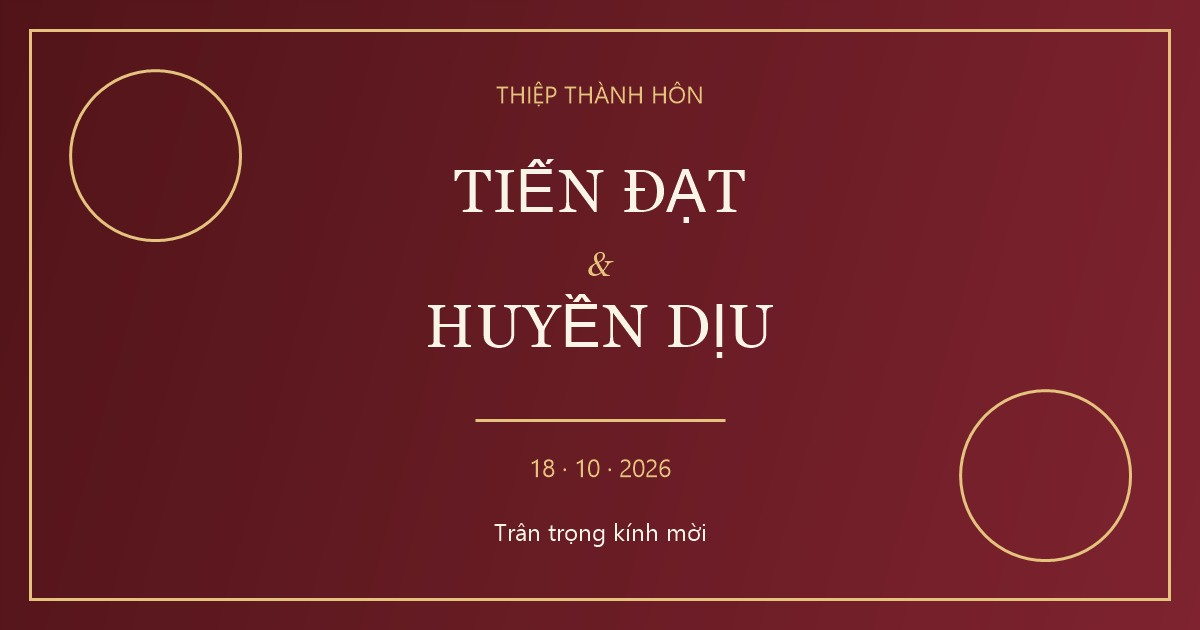
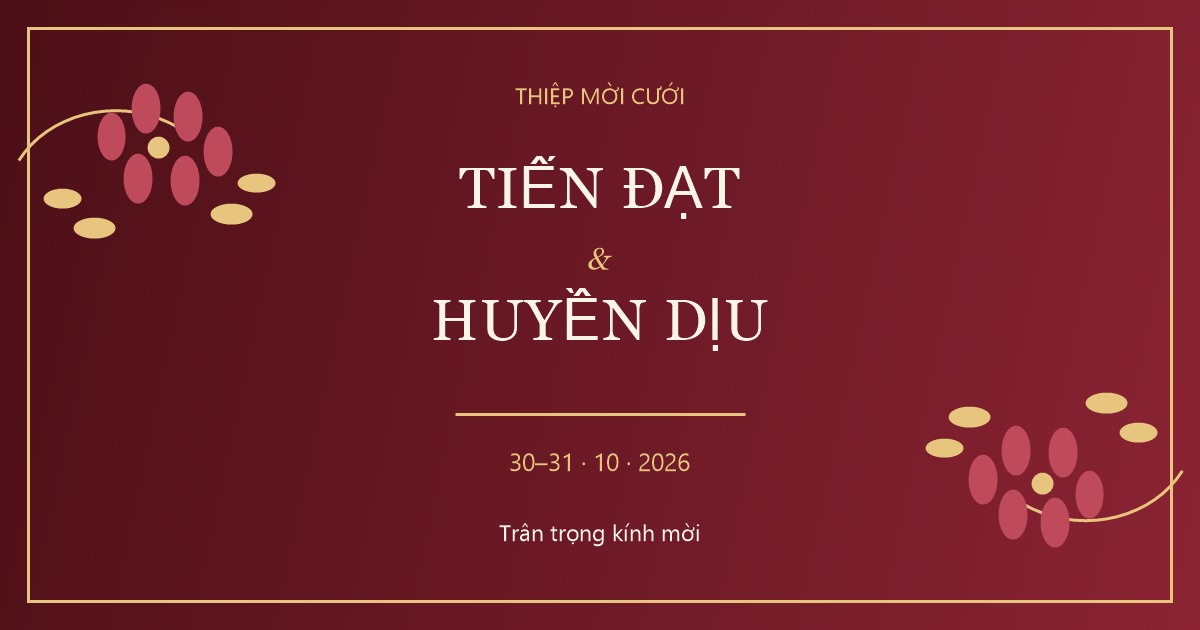
Update wedding dates and optimize invitation media

diff --git a/src/components/sections.js b/src/components/sections.js
@@ -2,9 +2,9 @@ import {invitationData as d} from '../data.js';
 import {floral,image,icon,escapeHTML as e,calendarCells,calendarURL} from '../lib.js';
 const title=t=>`<h2>${t}</h2>`;
 export function OpeningHero(){return `<header class="opening-hero"><p class="eyebrow">SAVE THE DATE</p><div class="envelope-scene" aria-label="Ảnh cưới trong phong bì"><div class="envelope-back"></div><div class="hero-photo">${image(d.hero.src,d.hero.alt,'','eager',d.hero.position)}</div>${floral('hero-flower')}<div class="envelope-front"></div><div class="envelope-seal">${icon('heart')}</div></div><div class="couple-names"><span>${e(d.couple.groom)}</span><i>&</i><span>${e(d.couple.bride)}</span></div></header>`;}
-export function WeddingCeremony(){return `<section class="ceremony section-card burgundy">${floral('card-flower right')}${title('THÔNG TIN LỄ CƯỚI')}<div class="families">${d.families.map(f=>`<div><p class="family-label">${e(f.title)}</p><p>Ông Bà</p><strong>${e(f.father)}<br>${e(f.mother)}</strong><p class="family-address">${e(f.address)}</p></div>`).join('')}</div><p class="formal">TRÂN TRỌNG BÁO TIN<br>LỄ THÀNH HÔN CỦA CHÚNG TÔI</p><h3 class="full-name">${e(d.couple.groomFull)}</h3><p class="birth-order">CHÚ RỂ</p><div class="ampersand">&</div><h3 class="full-name">${e(d.couple.brideFull)}</h3><p class="birth-order">CÔ DÂU</p><p class="formal ceremony-place">LỄ THÀNH HÔN ĐƯỢC CỬ HÀNH TẠI<br><strong>${e(d.event.ceremonyVenue.toUpperCase())}</strong></p><p class="time-row">VÀO LÚC ${e(d.event.ceremonyTime)} <span>${e(d.event.weekday.toUpperCase())}</span></p>${dateBlock()}<p class="lunar">TỨC NGÀY ${e(d.event.lunarDate.toUpperCase())} ÂM LỊCH</p></section>`;}
-function dateBlock(){const {year,month,day}=calendarCells(d.event.date);return `<div class="date-block"><b>${String(day).padStart(2,'0')}</b><span>THÁNG ${String(month).padStart(2,'0')}<br>${year}</span></div>`;}
-export function WeddingCalendar(){const c=calendarCells(d.event.date);return `<div class="wedding-calendar"><p>Tháng ${c.month} / ${c.year}</p><div class="calendar-grid">${['T2','T3','T4','T5','T6','T7','CN'].map(day=>`<span class="weekday">${day}</span>`).join('')}${c.cells.map(n=>`<span ${n===c.day?'class="wedding-day" aria-label="Ngày cưới '+n+'"':''}>${n||''}</span>`).join('')}</div></div>`;}
-export function ReceptionInfo(){return `<section class="reception section-card burgundy">${floral('card-flower left')}${title('THÔNG TIN TIỆC CƯỚI')}<h3 class="reception-subtitle">TIỆC CƯỚI SẼ DIỄN RA VÀO LÚC:</h3><p class="time-row">${e(d.event.weekday.toUpperCase())}<span>${e(d.event.receptionTime)}</span></p>${dateBlock()}<p class="lunar">TỨC NGÀY ${e(d.event.lunarDate.toUpperCase())} ÂM LỊCH</p><p class="banquet">KHAI TIỆC<br><strong>${e(d.event.receptionTime)}</strong></p>${WeddingCalendar()}<a class="calendar-link" href="${e(calendarURL())}" target="_blank" rel="noopener noreferrer">Thêm vào lịch</a></section>`;}
+export function WeddingCeremony(){return `<section class="ceremony section-card burgundy">${floral('card-flower right')}${title('THÔNG TIN LỄ CƯỚI')}<div class="families">${d.families.map(f=>`<div><p class="family-label">${e(f.title)}</p><p>Ông Bà</p><strong>${e(f.father)}<br>${e(f.mother)}</strong><p class="family-address">${e(f.address)}</p></div>`).join('')}</div><p class="formal">TRÂN TRỌNG BÁO TIN<br>LỄ THÀNH HÔN CỦA CHÚNG TÔI</p><h3 class="full-name">${e(d.couple.groomFull)}</h3><p class="birth-order">CHÚ RỂ</p><div class="ampersand">&</div><h3 class="full-name">${e(d.couple.brideFull)}</h3><p class="birth-order">CÔ DÂU</p><p class="formal ceremony-place">LỄ THÀNH HÔN ĐƯỢC CỬ HÀNH TẠI<br><strong>${e(d.event.ceremonyVenue.toUpperCase())}</strong></p><p class="time-row">VÀO LÚC ${e(d.event.ceremonyTime)} <span>${e(d.event.ceremonyWeekday.toUpperCase())}</span></p>${dateBlock(d.event.ceremonyDate)}<p class="lunar">TỨC NGÀY ${e(d.event.ceremonyLunarDate.toUpperCase())} ÂM LỊCH</p></section>`;}
+function dateBlock(date){const {year,month,day}=calendarCells(date);return `<div class="date-block"><b>${String(day).padStart(2,'0')}</b><span>THÁNG ${String(month).padStart(2,'0')}<br>${year}</span></div>`;}
+export function WeddingCalendar(date=d.event.receptionDate){const c=calendarCells(date);return `<div class="wedding-calendar"><p>Tháng ${c.month} / ${c.year}</p><div class="calendar-grid">${['T2','T3','T4','T5','T6','T7','CN'].map(day=>`<span class="weekday">${day}</span>`).join('')}${c.cells.map(n=>`<span ${n===c.day?'class="wedding-day" aria-label="Ngày cưới '+n+'"':''}>${n||''}</span>`).join('')}</div></div>`;}
+export function ReceptionInfo(){return `<section class="reception section-card burgundy">${floral('card-flower left')}${title('THÔNG TIN TIỆC CƯỚI')}<h3 class="reception-subtitle">TIỆC CƯỚI SẼ DIỄN RA VÀO LÚC:</h3><p class="time-row">${e(d.event.receptionWeekday.toUpperCase())}<span>${e(d.event.receptionTime)}</span></p>${dateBlock(d.event.receptionDate)}<p class="lunar">TỨC NGÀY ${e(d.event.receptionLunarDate.toUpperCase())} ÂM LỊCH</p><p class="banquet">KHAI TIỆC<br><strong>${e(d.event.receptionTime)}</strong></p>${WeddingCalendar()}<a class="calendar-link" href="${e(calendarURL())}" target="_blank" rel="noopener noreferrer">Thêm vào lịch</a></section>`;}
 export function VenueSection(){return '<section class="venue narrow-section"><h2>ĐỊA ĐIỂM HAI GIA ĐÌNH</h2>'+d.families.map(f=>{const q=encodeURIComponent(f.mapQuery || f.address);return `<article class="family-venue"><h3>${e(f.title)}</h3><p>${e(f.address)}</p><iframe title="Bản đồ ${e(f.title)}" src="https://maps.google.com/maps?q=${q}&output=embed" loading="lazy" referrerpolicy="no-referrer-when-downgrade" allowfullscreen></iframe><a class="outline-button" href="https://www.google.com/maps/search/?api=1&query=${q}" target="_blank" rel="noopener noreferrer">${icon('pin')} Chỉ đường đến ${e(f.title.toLowerCase())}</a></article>`;}).join('')+'</section>';}
 export function Footer(){return `<footer><div class="ornament">❦</div><p>Sự hiện diện của quý khách là niềm vinh hạnh<br>của gia đình chúng tôi!</p><span>${e(d.couple.groom)} & ${e(d.couple.bride)}</span></footer>`;}

diff --git a/src/components/gallery.js b/src/components/gallery.js
@@ -3,7 +3,7 @@ import {image,icon,escapeHTML as e} from '../lib.js';
 import {Overlay} from './overlay.js';
 export const wrapIndex=(index,length)=>(index%length+length)%length;
 export function PhotoGallery(){return `<section class="gallery-section" id="gallery" aria-label="Album ảnh cưới"><h2>ALBUM ẢNH</h2><div class="gallery-stage"><div class="gallery-perspective">${d.gallery.map((p,i)=>`<button class="gallery-photo" data-photo="${i}" aria-label="Xem ảnh cưới ${i+1}">${image(p.src,p.alt,'','lazy',p.position)}</button>`).join('')}</div><button class="gallery-arrow prev icon-button" aria-label="Ảnh trước">${icon('left')}</button><button class="gallery-arrow next icon-button" aria-label="Ảnh sau">${icon('right')}</button></div><div class="gallery-dots" aria-label="Chọn ảnh">${d.gallery.map((p,i)=>`<button data-dot="${i}" aria-label="Tới ảnh ${i+1}"><span></span></button>`).join('')}</div></section>`;}
-export function PhotoLightbox(){return `<div class="overlay lightbox" id="lightbox" hidden role="dialog" aria-modal="true" aria-label="Album ảnh cưới"><button class="overlay-close icon-button" data-close aria-label="Đóng album">${icon('close')}</button><p class="lightbox-counter" aria-live="polite"></p><div class="lightbox-image-area"><div class="zoom-pan"><img class="lightbox-image" alt=""></div></div><button class="lightbox-prev icon-button" aria-label="Ảnh trước">${icon('left')}</button><button class="lightbox-next icon-button" aria-label="Ảnh sau">${icon('right')}</button><div class="lightbox-bottom"><div class="zoom-controls"><button class="icon-button" data-zoom="-1" aria-label="Thu nhỏ">${icon('minus')}</button><button class="zoom-reset" aria-label="Đặt lại thu phóng">100%</button><button class="icon-button" data-zoom="1" aria-label="Phóng to">${icon('plus')}</button></div><div class="thumbnails">${d.gallery.map((p,i)=>`<button data-thumb="${i}" aria-label="Ảnh thu nhỏ ${i+1}">${image(p.thumbnailSrc||p.src,p.alt)}</button>`).join('')}</div></div></div>`;}
+export function PhotoLightbox(){return `<div class="overlay lightbox" id="lightbox" hidden role="dialog" aria-modal="true" aria-label="Album ảnh cưới"><button class="overlay-close icon-button" data-close aria-label="Đóng album">${icon('close')}</button><p class="lightbox-counter" aria-live="polite"></p><div class="lightbox-image-area"><div class="zoom-pan"><img class="lightbox-image" alt="" decoding="async"></div></div><button class="lightbox-prev icon-button" aria-label="Ảnh trước">${icon('left')}</button><button class="lightbox-next icon-button" aria-label="Ảnh sau">${icon('right')}</button><div class="lightbox-bottom"><div class="zoom-controls"><button class="icon-button" data-zoom="-1" aria-label="Thu nhỏ">${icon('minus')}</button><button class="zoom-reset" aria-label="Đặt lại thu phóng">100%</button><button class="icon-button" data-zoom="1" aria-label="Phóng to">${icon('plus')}</button></div><div class="thumbnails">${d.gallery.map((p,i)=>`<button data-thumb="${i}" aria-label="Ảnh thu nhỏ ${i+1}">${image(p.thumbnailSrc||p.src,p.alt)}</button>`).join('')}</div></div></div>`;}
 export function mountGallery(scroll,reduced){
   const root=document.querySelector('#gallery'), cards=[...root.querySelectorAll('[data-photo]')],dots=[...root.querySelectorAll('[data-dot]')];
   const box=document.querySelector('#lightbox'),overlay=new Overlay(box,scroll), photo=box.querySelector('.lightbox-image'),pan=box.querySelector('.zoom-pan');
@@ -28,7 +28,7 @@ export function mountGallery(scroll,reduced){
   new IntersectionObserver(([entry])=>visible=entry.isIntersecting,{threshold:.25}).observe(root);
   setInterval(()=>{if(!reduced&&visible&&!document.hidden&&box.hidden&&performance.now()>interactionUntil&&!(canHover&&root.matches(':hover'))&&!root.querySelector(':focus-visible'))update(active+1);},motion.galleryAutoplay);
   function applyZoom(){photo.style.transform=`translate(${panX}px,${panY}px) scale(${zoom})`;pan.classList.toggle('zoomed',zoom>1);box.querySelector('.zoom-reset').textContent=`${Math.round(zoom*100)}%`;box.querySelector('[data-zoom="-1"]').disabled=zoom===1;box.querySelector('[data-zoom="1"]').disabled=zoom>=3;}
-  function showLight(i){lightIndex=wrapIndex(i,d.gallery.length);const p=d.gallery[lightIndex];photo.src=p.src;delete photo.dataset.fallback;photo.alt=p.alt;zoom=1;panX=panY=0;applyZoom();box.querySelector('.lightbox-counter').textContent=`${lightIndex+1} / ${d.gallery.length}`;box.querySelectorAll('[data-thumb]').forEach((el,i)=>{el.classList.toggle('active',i===lightIndex);el.setAttribute('aria-pressed',String(i===lightIndex));if(i===lightIndex)el.scrollIntoView({block:'nearest',inline:'center',behavior:reduced?'instant':'smooth'});});}
+  function showLight(i){lightIndex=wrapIndex(i,d.gallery.length);const p=d.gallery[lightIndex];photo.src=p.lightboxSrc||p.src;delete photo.dataset.fallback;photo.alt=p.alt;zoom=1;panX=panY=0;applyZoom();box.querySelector('.lightbox-counter').textContent=`${lightIndex+1} / ${d.gallery.length}`;box.querySelectorAll('[data-thumb]').forEach((el,i)=>{el.classList.toggle('active',i===lightIndex);el.setAttribute('aria-pressed',String(i===lightIndex));if(i===lightIndex)el.scrollIntoView({block:'nearest',inline:'center',behavior:reduced?'instant':'smooth'});});}
   box.querySelector('.lightbox-prev').onclick=()=>showLight(lightIndex-1);box.querySelector('.lightbox-next').onclick=()=>showLight(lightIndex+1);
   box.querySelectorAll('[data-thumb]').forEach((el,i)=>el.onclick=()=>showLight(i));
   box.querySelectorAll('[data-zoom]').forEach(el=>el.onclick=()=>{zoom=Math.max(1,Math.min(3,zoom+Number(el.dataset.zoom)*.25));if(zoom===1)panX=panY=0;applyZoom();});

diff --git a/src/components/guestbook.js b/src/components/guestbook.js
@@ -1,9 +1,10 @@
-import {floral,escapeHTML as e} from '../lib.js';
+import {floral,escapeHTML as e,personalizedGuestName} from '../lib.js';
 import {guestbookStore} from '../guestbook-store.js';
 export function Guestbook(){return `<section class="guestbook narrow-section" id="guestbook"><div class="guestbook-card">${floral('guestbook-flower')}<h2>SỔ LƯU BÚT</h2><form novalidate><label for="guest-name">Tên của bạn</label><input id="guest-name" name="name" maxlength="80" autocomplete="name" placeholder="Tên của bạn" required aria-describedby="guestbook-status"><label for="guest-message">Lời chúc của bạn</label><textarea id="guest-message" name="message" maxlength="1000" placeholder="Gửi đôi lời yêu thương…" required aria-describedby="guestbook-status"></textarea><p id="guestbook-status" class="form-status" role="status" aria-live="polite"></p><div class="submit-row"><button class="primary" type="submit">GỬI LỜI CHÚC</button></div></form></div><div class="guestbook-messages" tabindex="0" role="region" aria-label="Những lời chúc dành cho đôi bạn"></div></section>`;}
 export async function mountGuestbook(scroll){const root=document.querySelector('#guestbook'),form=root.querySelector('form'),list=root.querySelector('.guestbook-messages'),status=root.querySelector('.form-status');
+ const name=form.elements.name,personalizedName=personalizedGuestName(window.location.search);if(personalizedName){name.value=personalizedName;name.defaultValue=personalizedName;name.readOnly=true;}
  const render=rows=>list.innerHTML=rows.map(row=>`<article class="message"><header><strong>${e(row.name)}</strong><time>${e(new Date(row.date).toLocaleDateString('vi-VN'))}</time></header><p>${e(row.message)}</p></article>`).join('');
  render(await guestbookStore.list());
  root.addEventListener('focusin',()=>scroll.hold('guestbook',true));root.addEventListener('focusout',ev=>{if(!root.contains(ev.relatedTarget)){scroll.hold('guestbook',false);scroll.pauseBriefly();}});root.addEventListener('pointerdown',()=>scroll.pauseBriefly());
- form.addEventListener('submit',async ev=>{ev.preventDefault();const name=form.elements.name,message=form.elements.message;name.removeAttribute('aria-invalid');message.removeAttribute('aria-invalid');if(!name.value.trim()||!message.value.trim()){const field=!name.value.trim()?name:message;status.textContent=field===name?'Vui lòng nhập tên của bạn.':'Vui lòng nhập lời chúc của bạn.';field.setAttribute('aria-invalid','true');field.focus();return;}const button=form.querySelector('button');button.disabled=true;try{await guestbookStore.add({name:name.value,message:message.value});render(await guestbookStore.list());form.reset();status.textContent='Cảm ơn bạn đã gửi lời chúc yêu thương!';list.scrollTop=0;}catch(err){status.textContent=err.message;}finally{button.disabled=false;}});
+ form.addEventListener('submit',async ev=>{ev.preventDefault();const message=form.elements.message;name.removeAttribute('aria-invalid');message.removeAttribute('aria-invalid');if(!name.value.trim()||!message.value.trim()){const field=!name.value.trim()?name:message;status.textContent=field===name?'Vui lòng nhập tên của bạn.':'Vui lòng nhập lời chúc của bạn.';field.setAttribute('aria-invalid','true');field.focus();return;}const button=form.querySelector('button');button.disabled=true;try{await guestbookStore.add({name:name.value,message:message.value});render(await guestbookStore.list());form.reset();status.textContent='Cảm ơn bạn đã gửi lời chúc yêu thương!';list.scrollTop=0;}catch(err){status.textContent=err.message;}finally{button.disabled=false;}});
 }

diff --git a/src/data.js b/src/data.js
@@ -2,13 +2,17 @@
 export const invitationData = {
   couple: { groom: 'Tiến Đạt', bride: 'Huyền Dịu', groomFull: 'Chu Tiến Đạt', brideFull: 'Nguyễn Huyền Dịu' },
   guestName: 'Quý khách',
-  event: { date: '2026-10-18', weekday: 'Chủ Nhật', ceremonyTime: '14:00', receptionTime: '10:00', endTime: '20:30', lunarDate: '09/09 năm Bính Ngọ', ceremonyVenue: 'Tư gia' },
+  event: {
+    date: '2026-10-31',
+    ceremonyDate: '2026-10-31', ceremonyWeekday: 'Thứ Bảy', ceremonyLunarDate: '22/09 năm Bính Ngọ', ceremonyTime: '14:00', ceremonyVenue: 'Tư gia',
+    receptionDate: '2026-10-30', receptionWeekday: 'Thứ Sáu', receptionLunarDate: '21/09 năm Bính Ngọ', receptionTime: '10:00', endTime: '20:30'
+  },
   families: [
-    { title: 'Nhà trai', mapQuery: '21.131066103159878,105.9095027585827', father: 'Chu Văn Phi', mother: 'Đinh Thị Thu', address: 'Xóm Đình Tràng, Thôn Đình Ngọc, Xã Thư Lâm, TP. Hà Nội' },
+    { title: 'Nhà trai', mapQuery: '21.131066103159878,105.9095027585827', father: 'Chu Văn Phi', mother: 'Đinh Thị Thu', address: 'Thôn Đình Ngọc, Xã Thư Lâm, TP Hà Nội' },
     { title: 'Nhà gái', mapQuery: '21.15289342058316,105.94212620314183', father: 'Nguyễn Hữu Thủy', mother: 'Trương Thị Oanh', address: 'TDP Mai Động, Phường Phù Khê, TP Bắc Ninh' }
   ],
-  hero: { src:'./public/images/wedding/originals/06.jpg',alt:'Ảnh cưới Chu Tiến Đạt và Nguyễn Huyền Dịu',position:'center' },
-  gallery: [6,8,3,11,4,9,5,12,7,10,1,2].map(n=>({id:`photo-${String(n).padStart(2,'0')}`,src:`./public/images/wedding/originals/${String(n).padStart(2,'0')}.jpg`,thumbnailSrc:`./public/images/wedding/originals/${String(n).padStart(2,'0')}.jpg`,alt:`Ảnh a${n} của Tiến Đạt và Huyền Dịu`,position:'center'})),
+  hero: { src:'./public/images/wedding/optimized/06.jpg',alt:'Ảnh cưới Chu Tiến Đạt và Nguyễn Huyền Dịu',position:'center' },
+  gallery: [6,8,3,11,4,9,5,12,7,10,1,2].map(n=>{const file=String(n).padStart(2,'0');return {id:`photo-${file}`,src:`./public/images/wedding/optimized/${file}.jpg`,lightboxSrc:`./public/images/wedding/lightbox/${file}.jpg`,thumbnailSrc:`./public/images/wedding/thumbnails/${file}.jpg`,alt:`Ảnh a${n} của Tiến Đạt và Huyền Dịu`,position:'center'};}),
   decorations: { floral:'./public/images/decorations/floral.svg',paper:'./public/images/decorations/paper.svg',palace:'./public/images/decorations/palace.svg',fallback:'./public/images/wedding/originals/06.jpg' },
   gifts: [
     {id:'groom',role:'Mừng chú rể',bank:'MB Bank',holder:'CHU TIẾN ĐẠT',account:'333332692222',qrSrc:'./public/images/gift/groom-qr.jpg',placeholder:false},

diff --git a/index.html b/index.html
@@ -4,15 +4,15 @@
   <meta charset="UTF-8">
   <meta name="viewport" content="width=device-width,initial-scale=1,viewport-fit=cover">
   <meta name="theme-color" content="#511419">
-  <meta name="description" content="Thiệp thành hôn Tiến Đạt và Huyền Dịu. Trân trọng kính mời bạn đến chung vui cùng gia đình.">
-  <meta property="og:title" content="Tiến Đạt &amp; Huyền Dịu · Thiệp thành hôn">
-  <meta property="og:description" content="Trân trọng kính mời bạn đến chung vui trong ngày thành hôn của Tiến Đạt và Huyền Dịu.">
+  <meta name="description" content="Đám cưới Chu Tiến Đạt &amp; Nguyễn Huyền Dịu trân trọng kính mời | 30–31 tháng 10, 2026 | Hà Nội – Bắc Ninh">
+  <meta property="og:title" content="Tiến Đạt &amp; Huyền Dịu · Thiệp Mời Cưới!">
+  <meta property="og:description" content="Đám cưới Chu Tiến Đạt &amp; Nguyễn Huyền Dịu trân trọng kính mời | 30–31 tháng 10, 2026 | Hà Nội – Bắc Ninh">
   <meta property="og:image" content="https://datct269.github.io/wedding-invitation/public/images/og-preview.jpg">
   <meta property="og:url" content="https://datct269.github.io/wedding-invitation/">
   <meta property="og:type" content="website">
   <meta name="twitter:card" content="summary_large_image">
-  <meta name="twitter:title" content="Tiến Đạt &amp; Huyền Dịu · Thiệp thành hôn">
-  <meta name="twitter:description" content="Trân trọng kính mời bạn đến chung vui trong ngày thành hôn của Tiến Đạt và Huyền Dịu.">
+  <meta name="twitter:title" content="Tiến Đạt &amp; Huyền Dịu · Thiệp Mời Cưới!">
+  <meta name="twitter:description" content="Đám cưới Chu Tiến Đạt &amp; Nguyễn Huyền Dịu trân trọng kính mời | 30–31 tháng 10, 2026 | Hà Nội – Bắc Ninh">
   <meta name="twitter:image" content="https://datct269.github.io/wedding-invitation/public/images/og-preview.jpg">
   <title>Tiến Đạt & Huyền Dịu · Thiệp thành hôn</title>
   <link rel="stylesheet" href="./src/styles.css">

diff --git a/src/lib.js b/src/lib.js
@@ -1,6 +1,7 @@
 import { invitationData as data } from './data.js';
 export const escapeHTML = value => String(value).replace(/[&<>"']/g,c=>({'&':'&amp;','<':'&lt;','>':'&gt;','"':'&quot;',"'":'&#39;'}[c]));
-export const guestNameFromSearch = (search, fallback=data.guestName) => new URLSearchParams(search).get('to')?.trim() || fallback;
+export const personalizedGuestName = search => new URLSearchParams(search).get('to')?.trim() || '';
+export const guestNameFromSearch = (search, fallback=data.guestName) => personalizedGuestName(search) || fallback;
 export const image = (src,alt='',cls='',loading='lazy',position='center') => `<img src="${escapeHTML(src)}" alt="${escapeHTML(alt)}" class="${cls}" draggable="false" loading="${loading}" decoding="async" style="object-position:${escapeHTML(position)}">`;
 export const floral = (cls='') => image(data.decorations.floral,'',`floral ${cls}`);
 export function installImageFallbacks(root=document) {
@@ -29,7 +30,7 @@ export function calendarCells(date) {
   return {year,month,day,cells:[...Array(start).fill(null),...Array.from({length:new Date(year,month,0).getDate()},(_,i)=>i+1)]};
 }
 export function calendarURL(d=data) {
-  const date=d.event.date.replaceAll('-','');
+  const date=d.event.receptionDate.replaceAll('-','');
   const params=new URLSearchParams({action:'TEMPLATE',text:`Đám cưới ${d.couple.groom} & ${d.couple.bride}`,dates:`${date}T${d.event.receptionTime.replace(':','')}00/${date}T${d.event.endTime.replace(':','')}00`,ctz:'Asia/Ho_Chi_Minh',location:d.families.map(f=>`${f.title}: ${f.address}`).join('; ')});
   return `https://calendar.google.com/calendar/render?${params}`;
 }

diff --git a/src/styles.css b/src/styles.css
@@ -52,4 +52,4 @@
 @media(max-width:600px){.gift-accounts{gap:10px;padding:16px 10px}.gift-accounts article{padding:10px 5px}.gift-accounts h3{font-size:17px}.gift-accounts .account-holder{font-size:10px}.qr-image{margin-bottom:12px;border-width:0}.gift-accounts .outline-button{font-size:11px}}
 
 .guestbook-messages{margin-top:32px}.guestbook-messages:empty{display:none}
-
+.gallery-photo{will-change:transform,opacity;backface-visibility:hidden;contain:layout paint}.gallery-photo img{transform:translateZ(0)}
